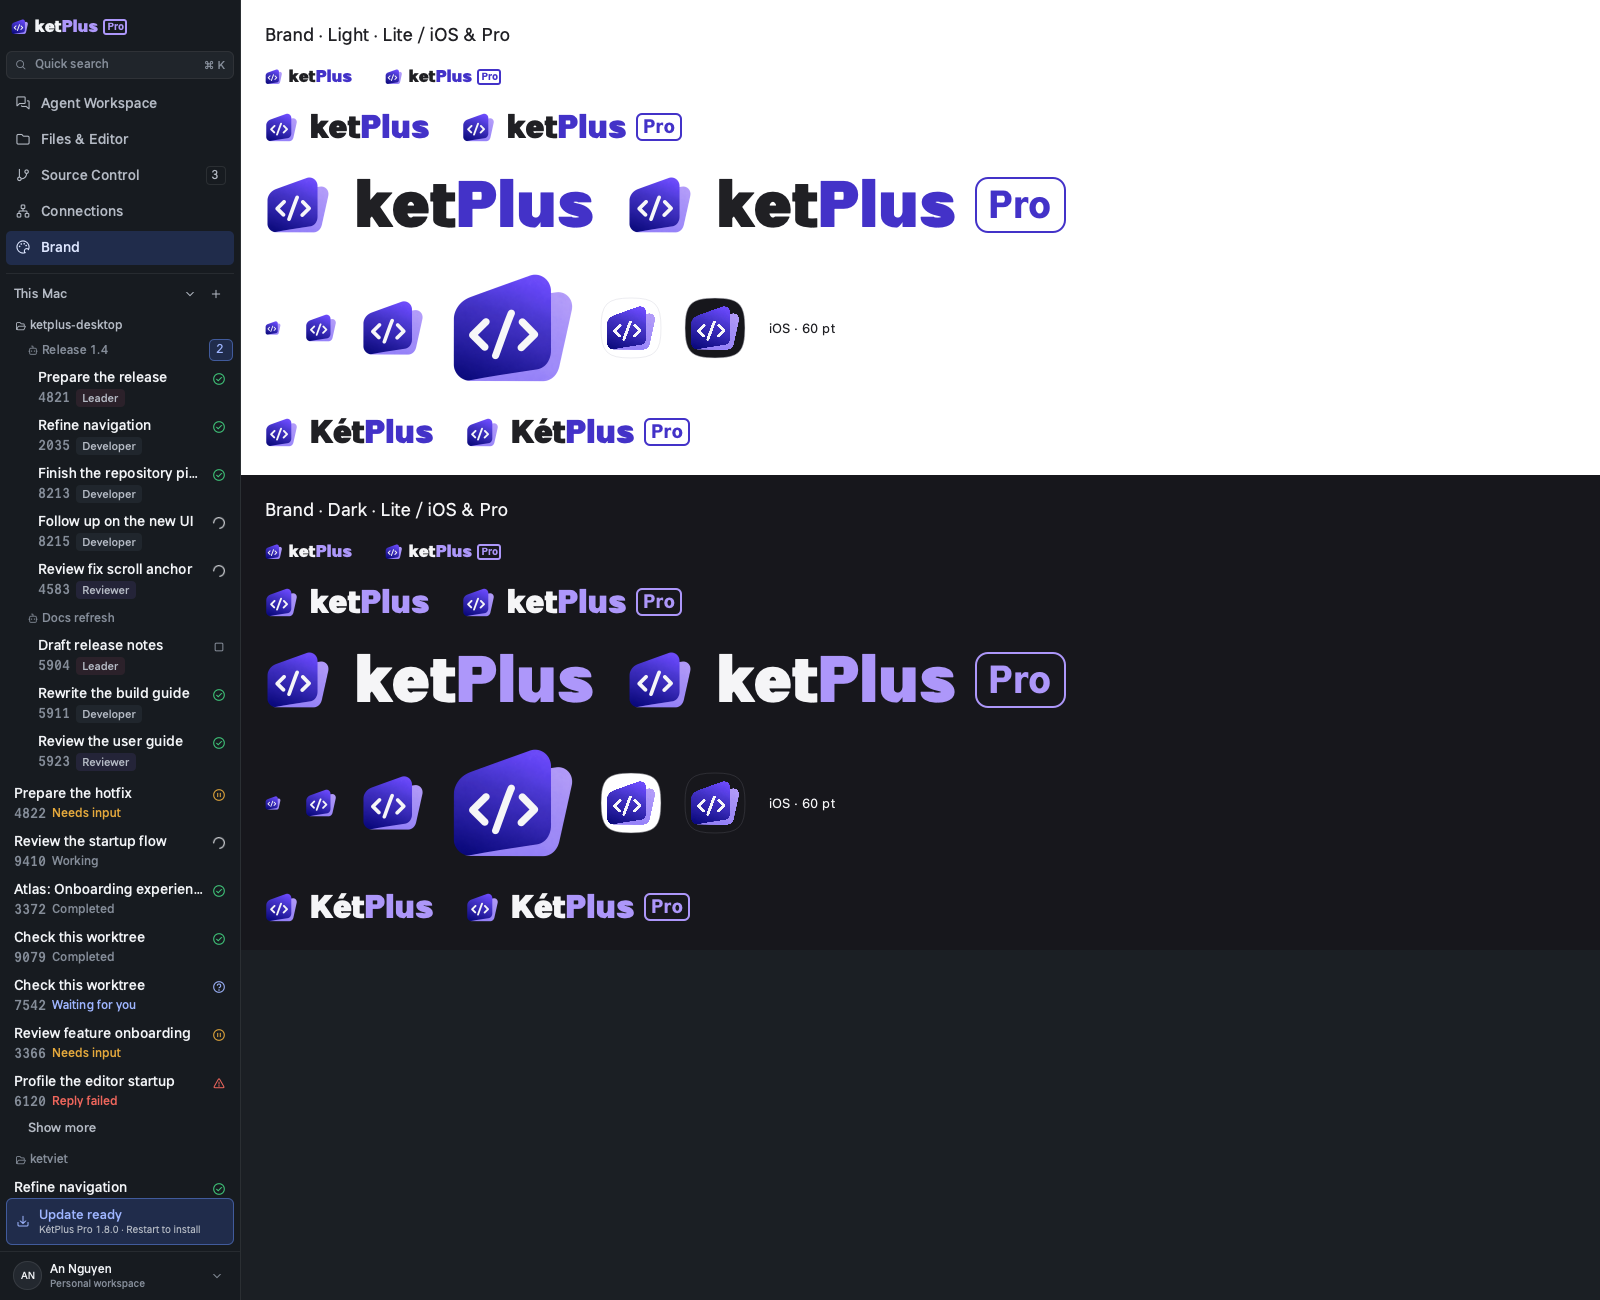
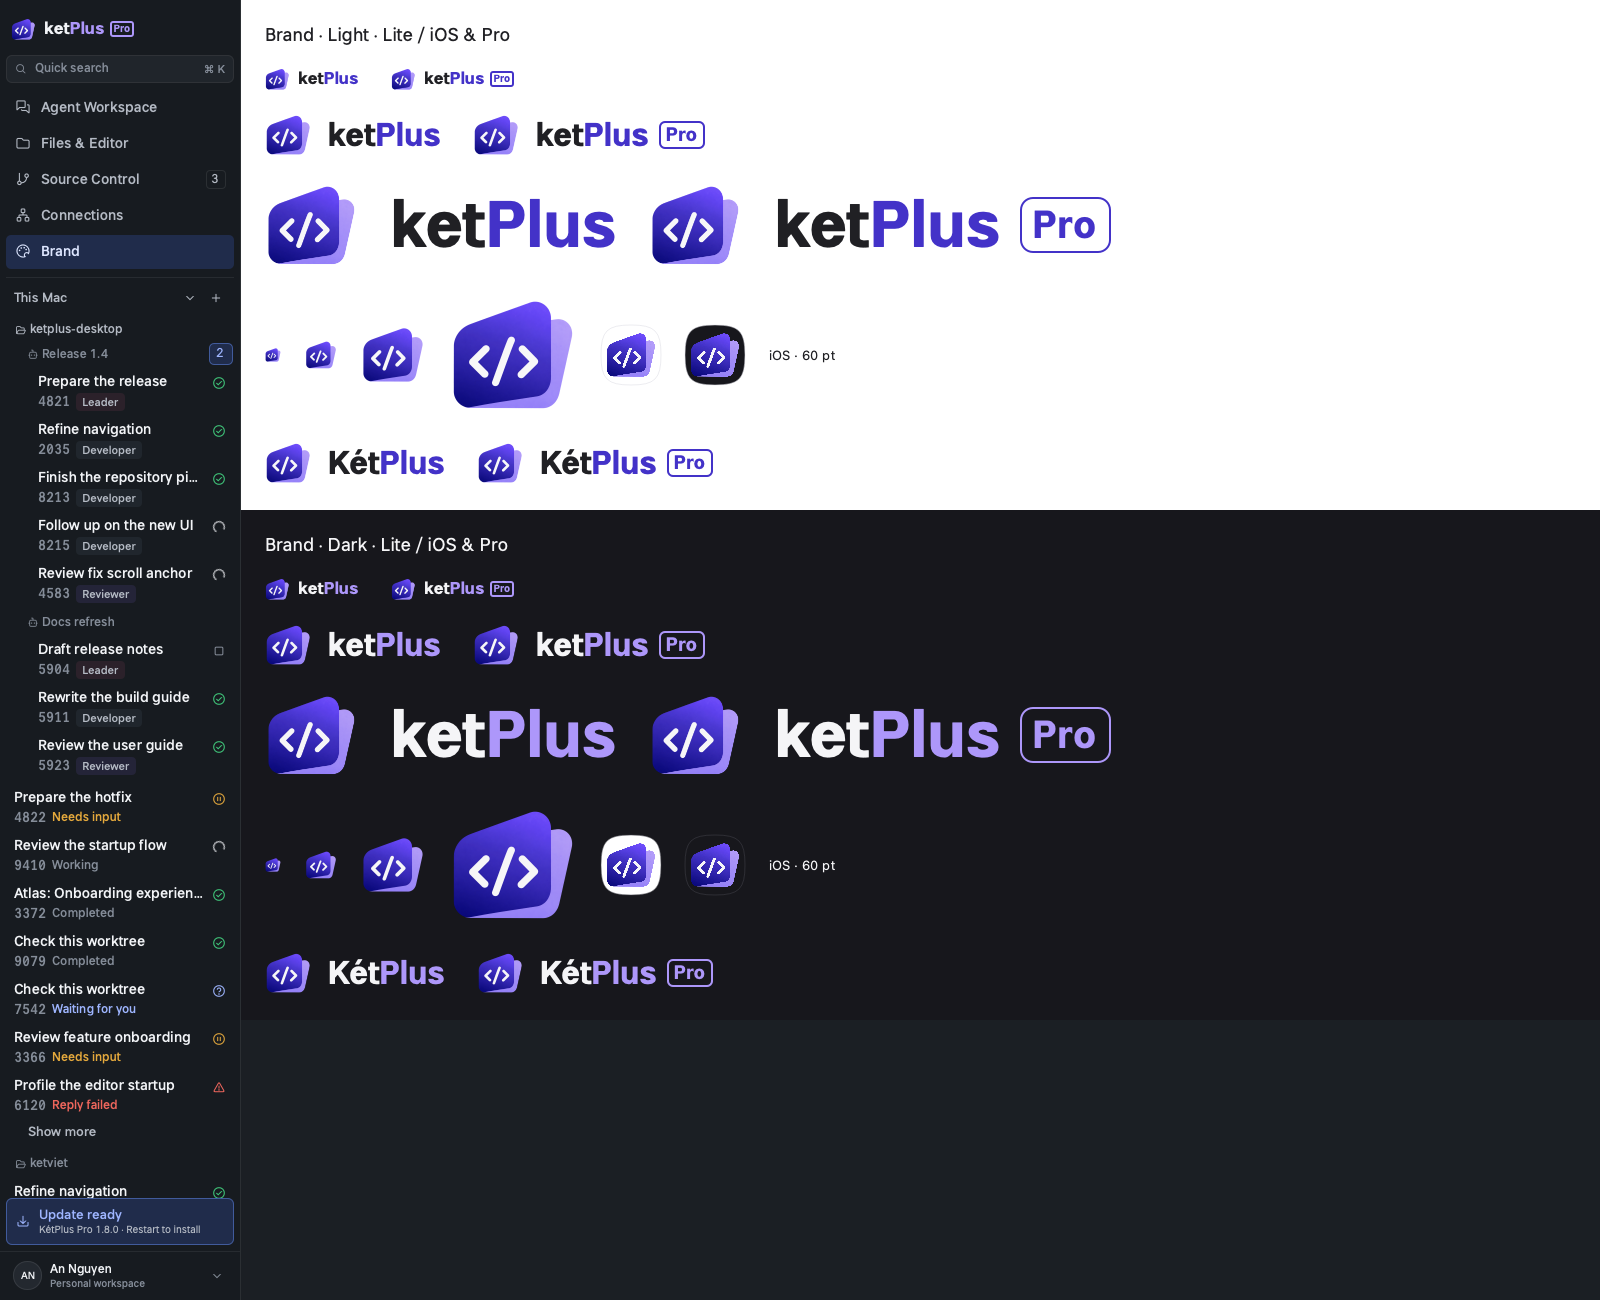
mock: use Bold wordmark and give brand mark more presence

diff --git a/mockups/qt/qml/parts/BrandLockup.qml b/mockups/qt/qml/parts/BrandLockup.qml
@@ -11,11 +11,10 @@ Item {
     property string stem: "ket"
     property color textColor: KetTheme.t.textMain
     readonly property color brandColor: dark ? "#AD97FA" : "#4332C8"
-    readonly property real markSize: metrics.capitalHeight * 1.45
+    readonly property real markSize: size * 1.45
     implicitWidth: markSize + markSize * 0.35 + word.implicitWidth
                    + (edition === "pro" ? size * 0.3 + badge.width : 0)
     implicitHeight: Math.max(markSize, word.implicitHeight, badge.height)
-    FontMetrics { id: metrics; font: word.font }
     Image {
         width: lockup.markSize; height: width
         anchors.verticalCenter: parent.verticalCenter
@@ -30,7 +29,7 @@ Item {
         text: lockup.stem + "<font color='" + lockup.brandColor + "'>Plus</font>"
         color: lockup.textColor
         font.family: "KET Sans"
-        font.weight: Font.Black
+        font.weight: Font.Bold
         font.pixelSize: lockup.size
         font.letterSpacing: -lockup.size * 0.015
     }

diff --git a/mockups/qt/src/main.cpp b/mockups/qt/src/main.cpp
@@ -107,14 +107,14 @@ int main(int argc, char* argv[]) {
 
     if (parser.isSet(smoke)) {
         QFont brandFont(QStringLiteral("KET Sans"));
-        brandFont.setWeight(QFont::Black);
+        brandFont.setWeight(QFont::Bold);
         brandFont.setPixelSize(32);
         const QFontInfo resolved(brandFont);
         const QRawFont face = QRawFont::fromFont(brandFont);
         std::fprintf(stderr, "Brand font: %s / %s / weight %d\n", qPrintable(resolved.family()),
                      qPrintable(face.styleName()), face.weight());
         if (resolved.family() != QStringLiteral("KET Sans") ||
-            !face.styleName().contains(QStringLiteral("Black")) || face.weight() != 900)
+            !face.styleName().contains(QStringLiteral("Bold")) || face.weight() != 700)
             return 1;
     }
 

diff --git a/mockups/qt/README.md b/mockups/qt/README.md
@@ -278,7 +278,8 @@ Design System (MIT, `core/resources/mermaid/KetDesignSystem-LICENSE.txt`).
 
 Open **Brand** in the sidebar (`--screen=brand`). It compares Lite/iOS and Pro at
 17, 32 and 64 px on light and dark backgrounds, the mark at 16–128 px, 60 pt iOS
-icon tiles, and the alternate `KétPlus` casing. The default wordmark is `ketPlus`.
+icon tiles, and the alternate `KétPlus` casing. The default wordmark is `ketPlus`. After review, the wordmark uses Bold 700
+and the mark is 1.45× the wordmark pixel size so the icon has more presence.
 
 The supplied KetPlusMark PNG is cropped to artwork bounds (alpha ≥ 8/255 ignores
 near-transparent isolated noise), centred in a square with a 4% margin on each
@@ -287,9 +288,9 @@ colours are mid indigo `#4332C8` and lilac `#AD97FA`; the latter is used on dark
 surfaces for contrast. The previous Két Symbol SVGs are superseded pending
 approval and retained with their attribution.
 
-`BrandLockup` owns mark geometry and wordmark spacing. KÉT Sans Black (900,
+`BrandLockup` owns mark geometry and wordmark spacing. KÉT Sans Bold (700,
 registered by Qt as `KET Sans`) is embedded; smoke checks the resolved family,
-Black face and weight. `ket` follows the main text colour, `Plus` the brand
+Bold face and weight. `ket` follows the main text colour, `Plus` the brand
 indigo, with −0.015 em letter spacing. Pro uses KÉT Sans Bold (700) at 0.6×,
 a transparent rounded frame with a 1.5 px stroke scaled with interface zoom,
 0.35 em horizontal / 0.12 em vertical padding, and a 0.3 em wordmark gap.

diff --git a/mockups/qt/evidence/brand/README.md b/mockups/qt/evidence/brand/README.md
@@ -8,8 +8,8 @@ named theme. Open `--screen=brand` to inspect interactively.
 - [Dark shell](dark.png)
 
 Validation: standalone CMake/Ninja build passed; `--smoke` passed with 72
-screen/state entries and zero QML problems. Resolved font: `KET Sans / Black /
-weight 900` (QFontInfo and QRawFont). Sidebar geometry checks passed for light
+screen/state entries and zero QML problems. Resolved font: `KET Sans / Bold /
+weight 700` (QFontInfo and QRawFont). Sidebar geometry checks passed for light
 and dark at zoom 1 and the supported maximum 3. A rendered dark Settings view
 at zoom 3 was also inspected: the brand remained fully inside its 720 px sidebar.
 Lilac `#AD97FA` against sidebar `#171B20` has WCAG contrast 7.07:1.
@@ -21,5 +21,7 @@ Source processing detail: alpha values below 8/255 outside the artwork were
 ignored for crop bounds, avoiding isolated near-invisible noise in the supplied
 PNG. Artwork bounds: (207, 239)–(1049, 998), then square canvas plus 4% margin
 per side, resampled to 1024/128/64. The supplied original was not changed.
+After Jay’s review, the wordmark is Bold 700 and the mark height is 1.45×
+the wordmark pixel size, giving the mark more presence than the initial draft.
 The iOS tiles are 60 pt squircle previews corresponding to a 1024 pt design
 canvas; these are approval specimens, not release app-icon assets.
